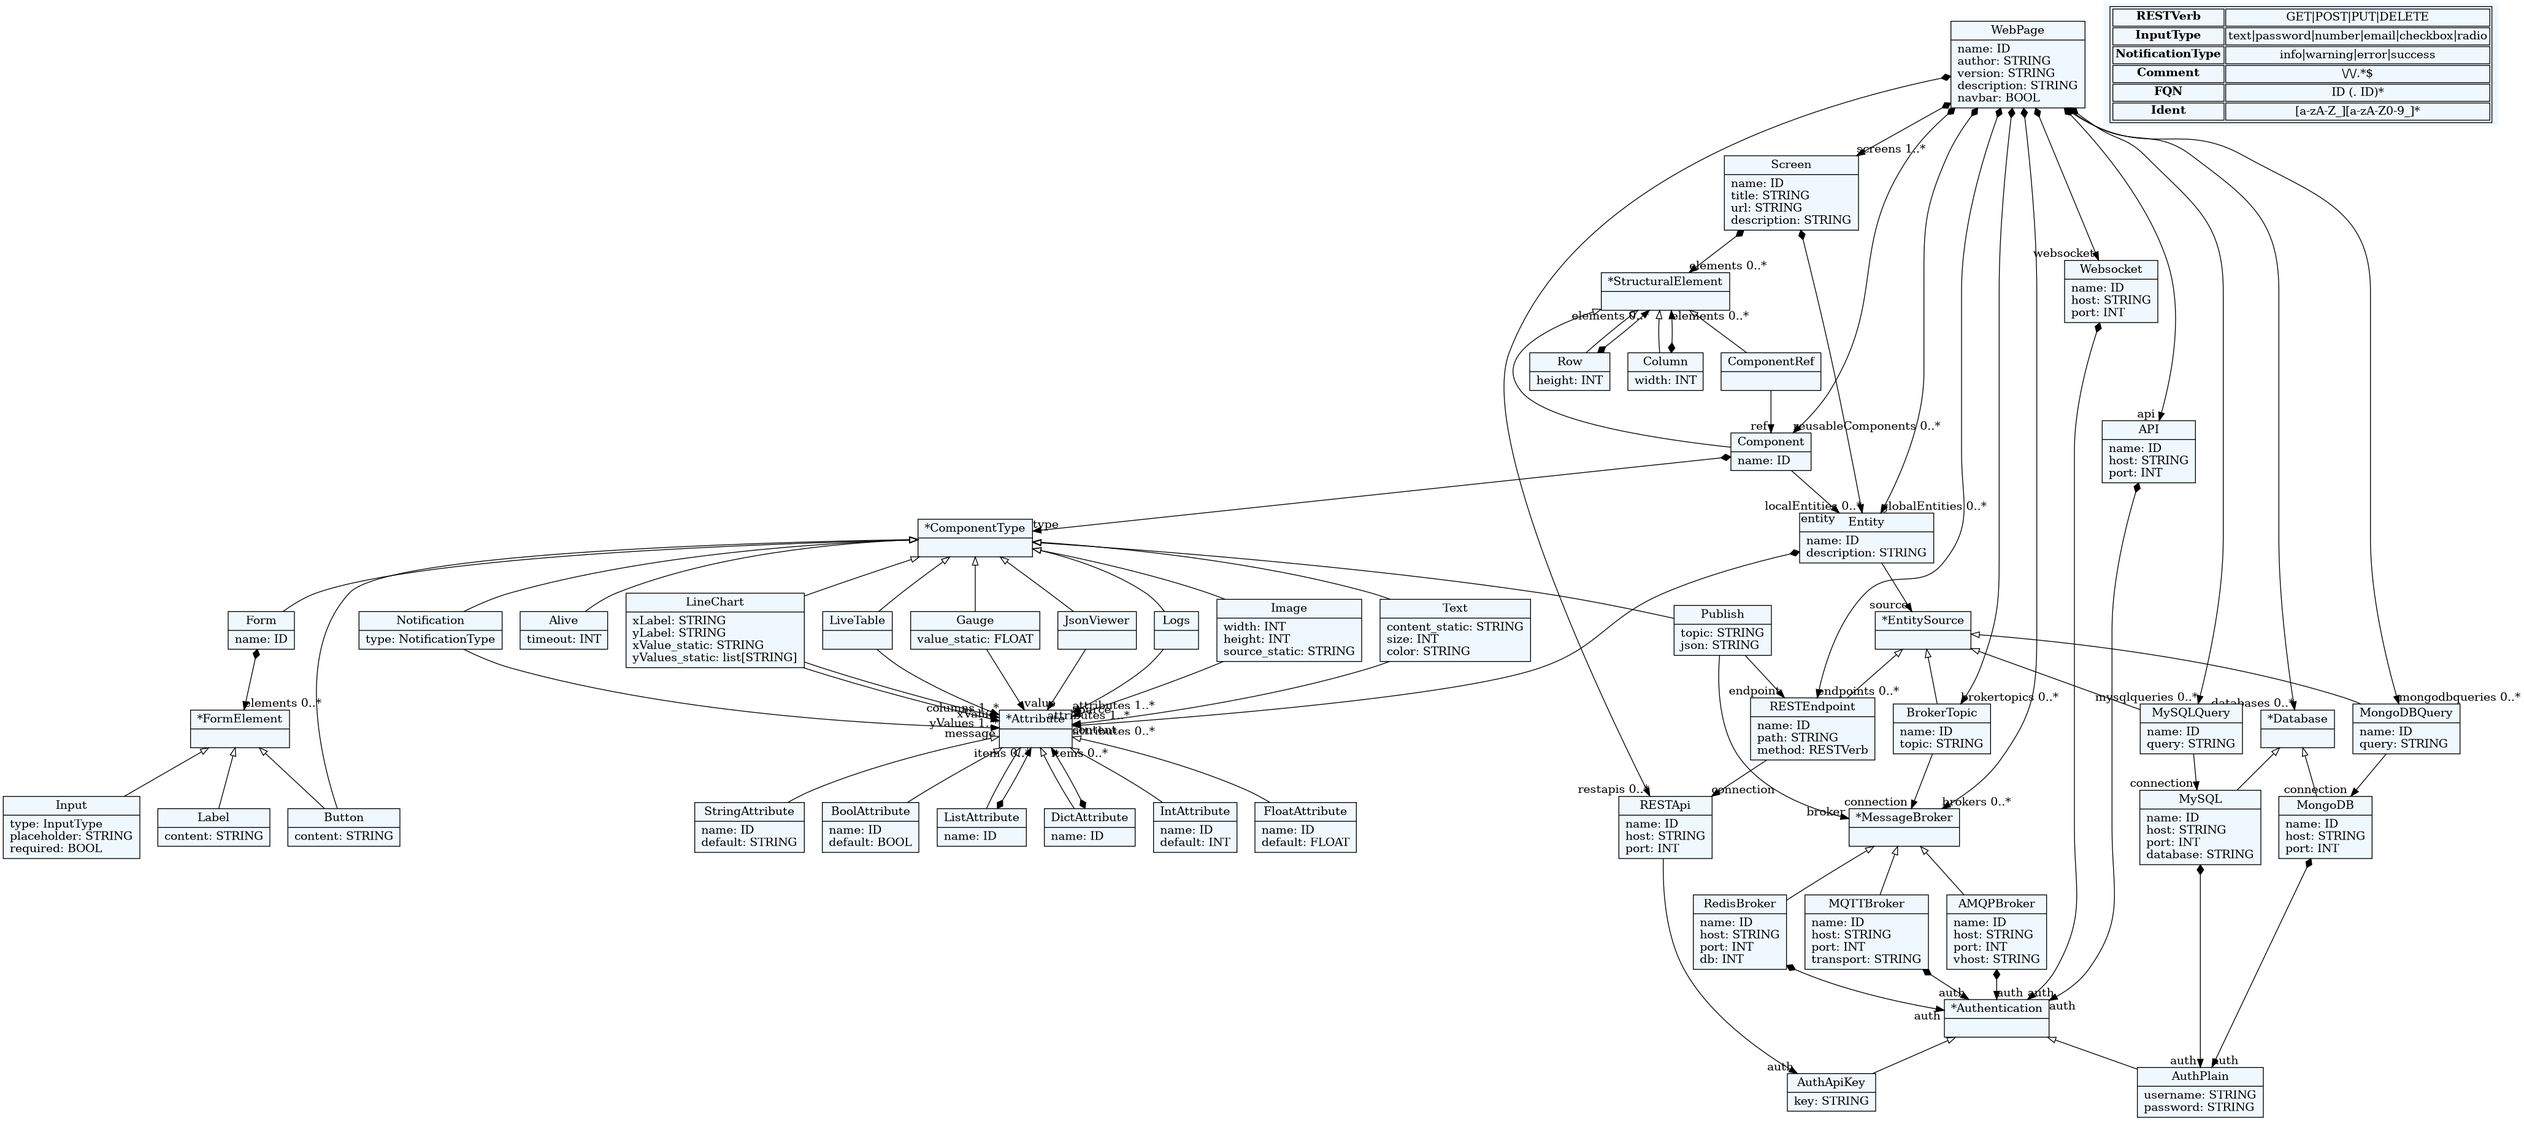
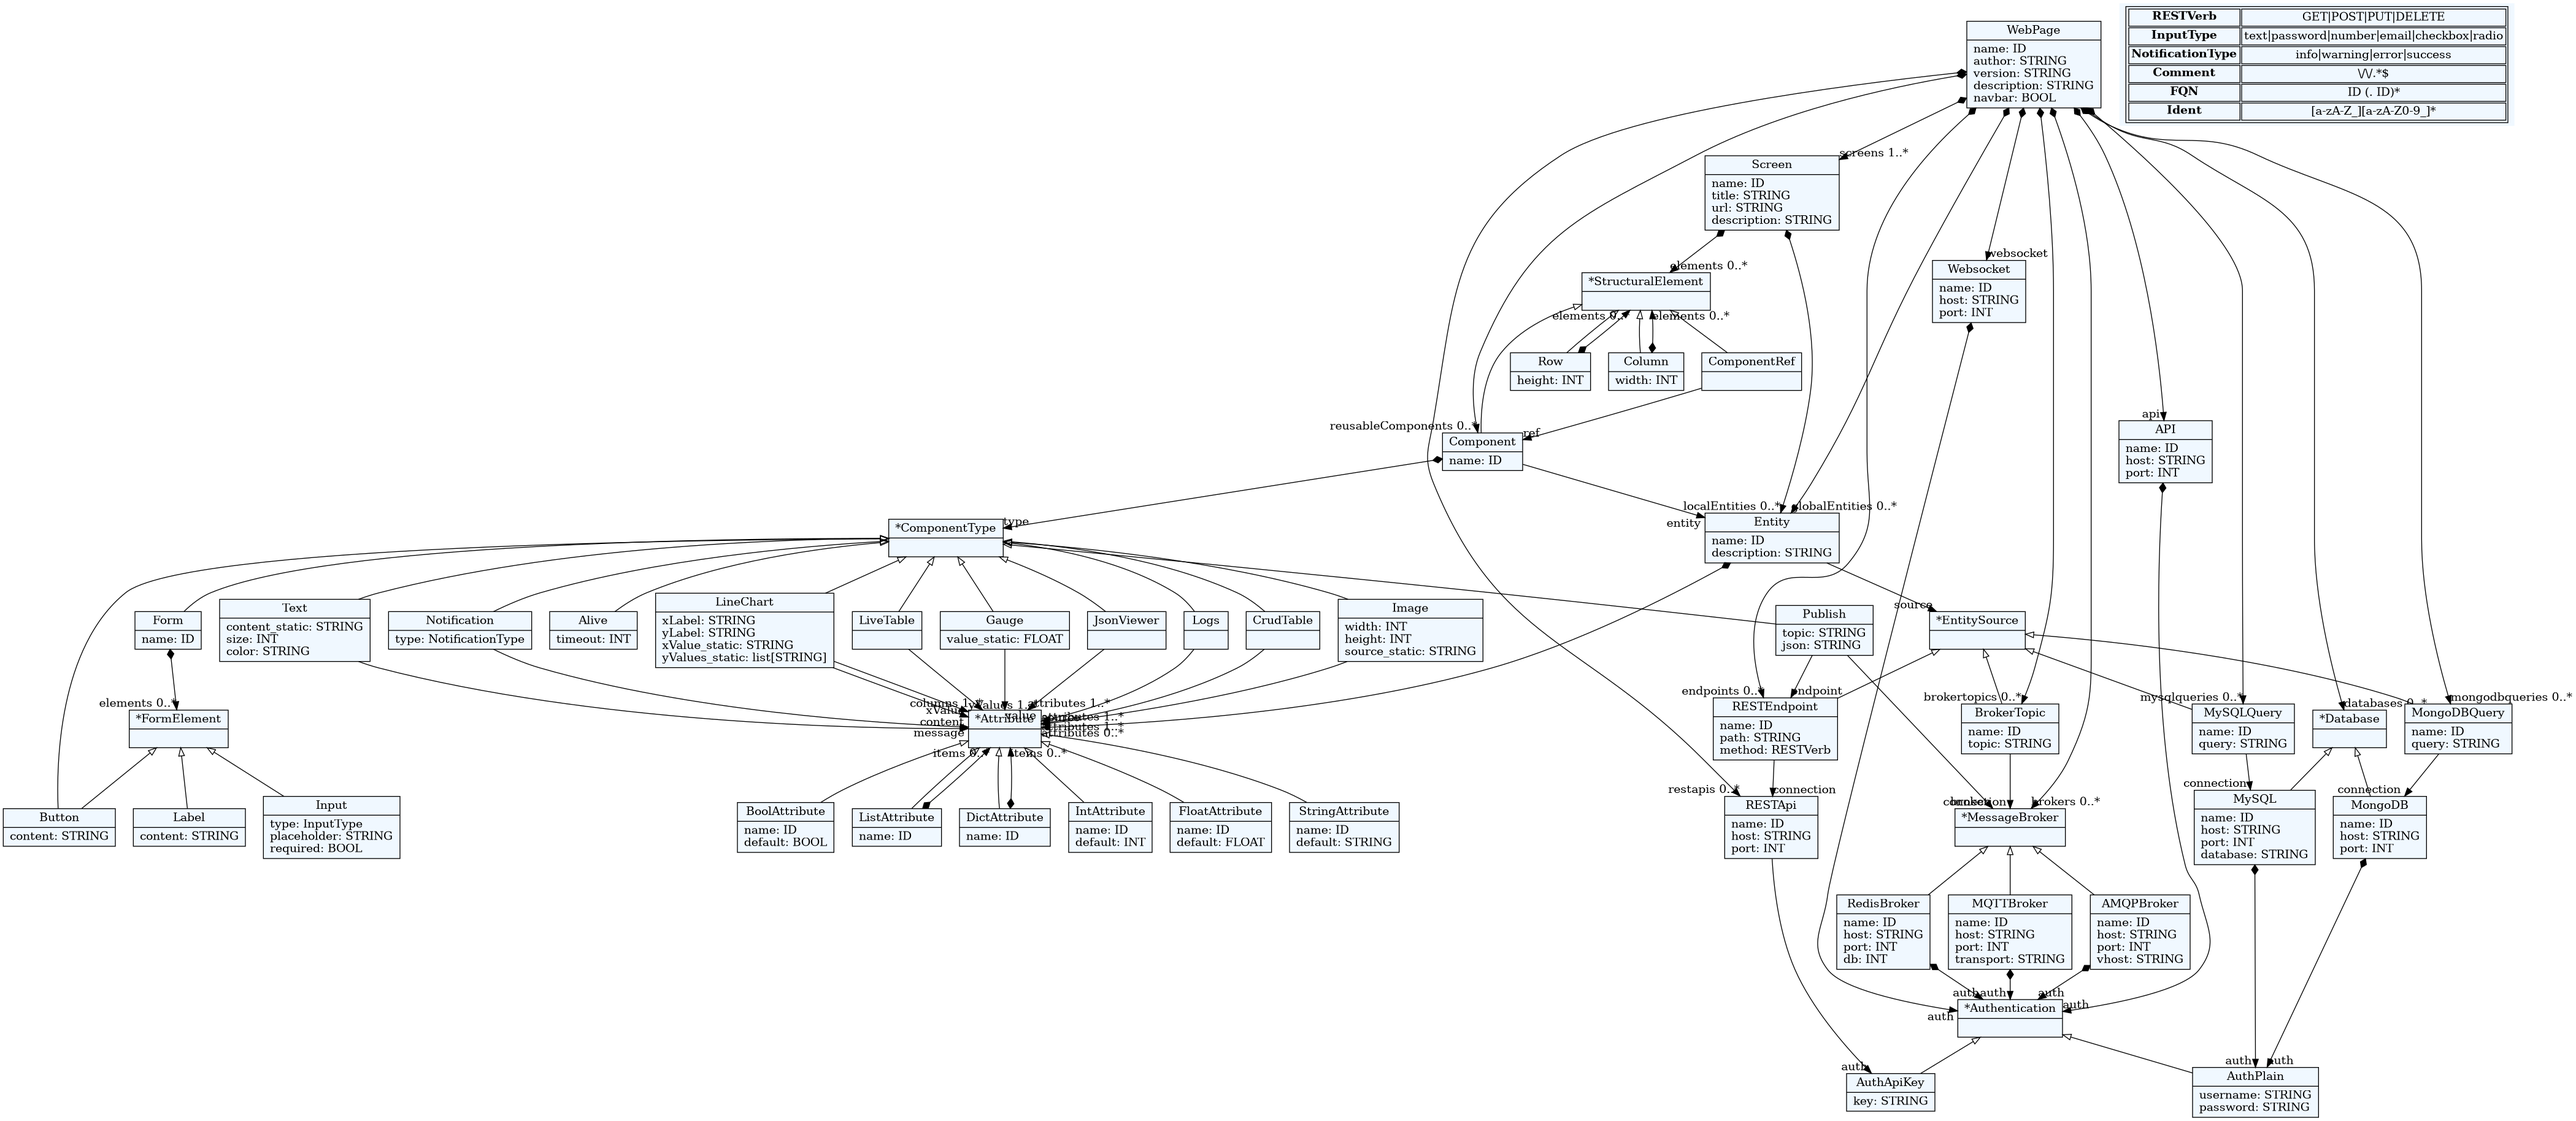
Added CrudTable component, only read working

diff --git a/web_dsl/base/frontend_base/src/components/CrudTable.jsx b/web_dsl/base/frontend_base/src/components/CrudTable.jsx
@@ -1,0 +1,227 @@
+import React, { useEffect, useMemo, useState } from "react";
+import convertTypeValue from "../utils/convertTypeValue";
+import { proxyRestCall } from "../api/proxyRestCall";
+import { queryDB } from "../api/dbQuery";
+import { FaEdit, FaTrash, FaSave } from "react-icons/fa";
+
+const CrudTable = ({
+    attributes,
+    restData = {},
+    dbData = {},
+    sourceOfContent
+}) => {
+    const [data, setData] = useState([]);
+    const [editingId, setEditingId] = useState(null);
+
+    // load from REST or DB
+    const reloadValue = async () => {
+        if (sourceOfContent === "rest") {
+            const response = await proxyRestCall(restData);
+            if (attributes.length === 0) {
+                setData(response);
+            } else {
+                const newData = response.map((item) => {
+                    const newItem = {};
+                    attributes.forEach((attribute) => {
+                        try {
+                            newItem[attribute.name] = convertTypeValue(
+                                item[attribute.name],
+                                attribute.type
+                            );
+                        } catch (error) {
+                            console.error("Error converting value:", error);
+                        }
+                    });
+                    return newItem;
+                });
+                setData(newData);
+            }
+        }
+        if (sourceOfContent === "db") {
+            const response = await queryDB(dbData);
+            if (attributes.length === 0) {
+                console.log("response", response);
+                setData(response);
+            } else {
+                const newData = response.map((item) => {
+                    const newItem = {};
+                    attributes.forEach((attribute) => {
+                        try {
+                            newItem[attribute.name] = convertTypeValue(
+                                item[attribute.name],
+                                attribute.type
+                            );
+                        } catch (error) {
+                            console.error("Error converting value:", error);
+                        }
+                    });
+                    return newItem;
+                });
+                setData(newData);
+            }
+        }
+    };
+
+    useEffect(() => {
+        reloadValue();
+    }, []);
+
+    // infer your columns from the first row of data
+    const columns = useMemo(() => {
+        if (!data || data.length === 0) return [];
+        return Object.keys(data[0]).filter((key) => key !== "id");
+    }, [data]);
+
+    // build an “empty” record template whenever your columns change
+    const emptyRecord = useMemo(() => {
+        const rec = {};
+        columns.forEach((col) => {
+            rec[col] = "";
+        });
+        return rec;
+    }, [columns]);
+
+    const [newRecord, setNewRecord] = useState(emptyRecord);
+
+    // keep newRecord in sync if columns ever change
+    useEffect(() => {
+        setNewRecord(emptyRecord);
+    }, [emptyRecord]);
+
+    const handleChange = (id, col, rawValue) => {
+        const value = convertTypeValue(rawValue, typeof data[0][col]);
+        setData((rows) =>
+            rows.map((r) => (r.id === id ? { ...r, [col]: value } : r))
+        );
+    };
+
+    const handleNewChange = (col, rawValue) => {
+        const value = convertTypeValue(rawValue, typeof newRecord[col]);
+        setNewRecord((r) => ({ ...r, [col]: value }));
+    };
+
+    const handleSave = (id) => setEditingId(null);
+
+    const handleDelete = (id) =>
+        setData((rows) => rows.filter((r) => r.id !== id));
+
+    const handleAdd = () => {
+        const nextId = data.length ? Math.max(...data.map((r) => r.id)) + 1 : 1;
+        setData((rows) => [...rows, { id: nextId, ...newRecord }]);
+        setNewRecord(emptyRecord);
+    };
+
+    const capitalize = (s) => s[0].toUpperCase() + s.slice(1);
+
+    return (
+        <div className="flex flex-col text-white justify-start items-center w-full h-fit max-h-96 bg-[#101929] rounded-2xl">
+            {/* Header */}
+            <div className="w-full sticky top-0 z-10 border-b border-[#111929] bg-[#1A2233] p-4 rounded-t-2xl">
+                <div
+                    className="grid gap-2 font-bold"
+                    style={{
+                        gridTemplateColumns: `repeat(${
+                            columns.length + 1
+                        }, minmax(100px,1fr))`
+                    }}
+                >
+                    {columns.map((col) => (
+                        <div key={col} className="text-left">
+                            {capitalize(col)}
+                        </div>
+                    ))}
+                    <div className="text-center">Actions</div>
+                </div>
+            </div>
+
+            {/* Body */}
+            <div className="w-full max-h-80 overflow-y-auto">
+                {data.map((row) => (
+                    <div
+                        key={row.id}
+                        className="grid gap-2 p-2 bg-[#101929] border-b border-[#0D1117] items-center"
+                        style={{
+                            gridTemplateColumns: `repeat(${
+                                columns.length + 1
+                            }, minmax(100px,1fr))`
+                        }}
+                    >
+                        {columns.map((col) =>
+                            editingId === row.id ? (
+                                <input
+                                    key={col}
+                                    className="bg-transparent text-white focus:outline-none border-b border-transparent focus:border-white px-2"
+                                    value={row[col]}
+                                    onChange={(e) =>
+                                        handleChange(
+                                            row.id,
+                                            col,
+                                            e.target.value
+                                        )
+                                    }
+                                />
+                            ) : (
+                                <p key={col} className="text-left px-2">
+                                    {row[col] ?? "-"}
+                                </p>
+                            )
+                        )}
+                        <div className="flex justify-center space-x-2">
+                            {editingId === row.id ? (
+                                <button
+                                    onClick={() => handleSave(row.id)}
+                                    className="p-2 rounded-full hover:bg-[#03C64C]/20"
+                                >
+                                    <FaSave className="text-[#03C64C]" />
+                                </button>
+                            ) : (
+                                <button
+                                    onClick={() => setEditingId(row.id)}
+                                    className="p-2 rounded-full hover:bg-[#2D4272]/20"
+                                >
+                                    <FaEdit className="text-white" />
+                                </button>
+                            )}
+                            <button
+                                onClick={() => handleDelete(row.id)}
+                                className="p-2 rounded-full hover:bg-[#FA2C37]/20"
+                            >
+                                <FaTrash className="text-[#FA2C37]" />
+                            </button>
+                        </div>
+                    </div>
+                ))}
+
+                {/* New Record Row */}
+                <div
+                    className="grid gap-2 p-2 bg-[#1A2233] rounded-b-2xl"
+                    style={{
+                        gridTemplateColumns: `repeat(${
+                            columns.length + 1
+                        }, minmax(100px,1fr))`
+                    }}
+                >
+                    {columns.map((col) => (
+                        <input
+                            key={col}
+                            className="p-1 bg-transparent text-white focus:outline-none border-b border-transparent focus:border-white px-2 placeholder-gray-400"
+                            placeholder={capitalize(col)}
+                            value={newRecord[col]}
+                            onChange={(e) =>
+                                handleNewChange(col, e.target.value)
+                            }
+                        />
+                    ))}
+                    <button
+                        onClick={handleAdd}
+                        className="bg-[#2D4272] px-3 py-1 rounded-md font-medium hover:bg-[#253A66]"
+                    >
+                        Add
+                    </button>
+                </div>
+            </div>
+        </div>
+    );
+};
+
+export default CrudTable;

diff --git a/web_dsl/language.py b/web_dsl/language.py
@@ -20,6 +20,7 @@ from .lib.component import (
     JsonViewer,
     Text,
     Logs,
+    CrudTable,
 )
 
 # Map grammar rules to Python classes
@@ -36,6 +37,7 @@ custom_classes = [
     JsonViewer,
     Text,
     Logs,
+    CrudTable,
     # Add other classes here
 ]
 
@@ -96,6 +98,7 @@ def get_metamodel(debug: bool = False, global_repo: bool = True):
             "JsonViewer.attributes": component_entity_attributes_scope,
             "Logs.attributes": component_entity_attributes_scope,
             "Image.source": component_entity_attributes_scope,
+            "CrudTable.attributes": component_entity_attributes_scope,
         }
     )
 

diff --git a/web_dsl/lib/component.py b/web_dsl/lib/component.py
@@ -142,3 +142,9 @@ class Logs(ComponentType):
     def __init__(self, parent=None, name="Logs", attributes=None):
         super().__init__(parent, name)
         self.attributes = attributes
+
+
+class CrudTable(ComponentType):
+    def __init__(self, parent=None, name="CrudTable", attributes=None):
+        super().__init__(parent, name)
+        self.attributes = attributes

diff --git a/web_dsl/generate.py b/web_dsl/generate.py
@@ -80,6 +80,7 @@ def generate(model_path, gen_path):
     # Generate the screen components
     for screen in model.screens:
         print(f"Generating screen: {screen.name}")
+
         try:
             html_content = screen_template.render(screen=screen)
         except TemplateError as e:
